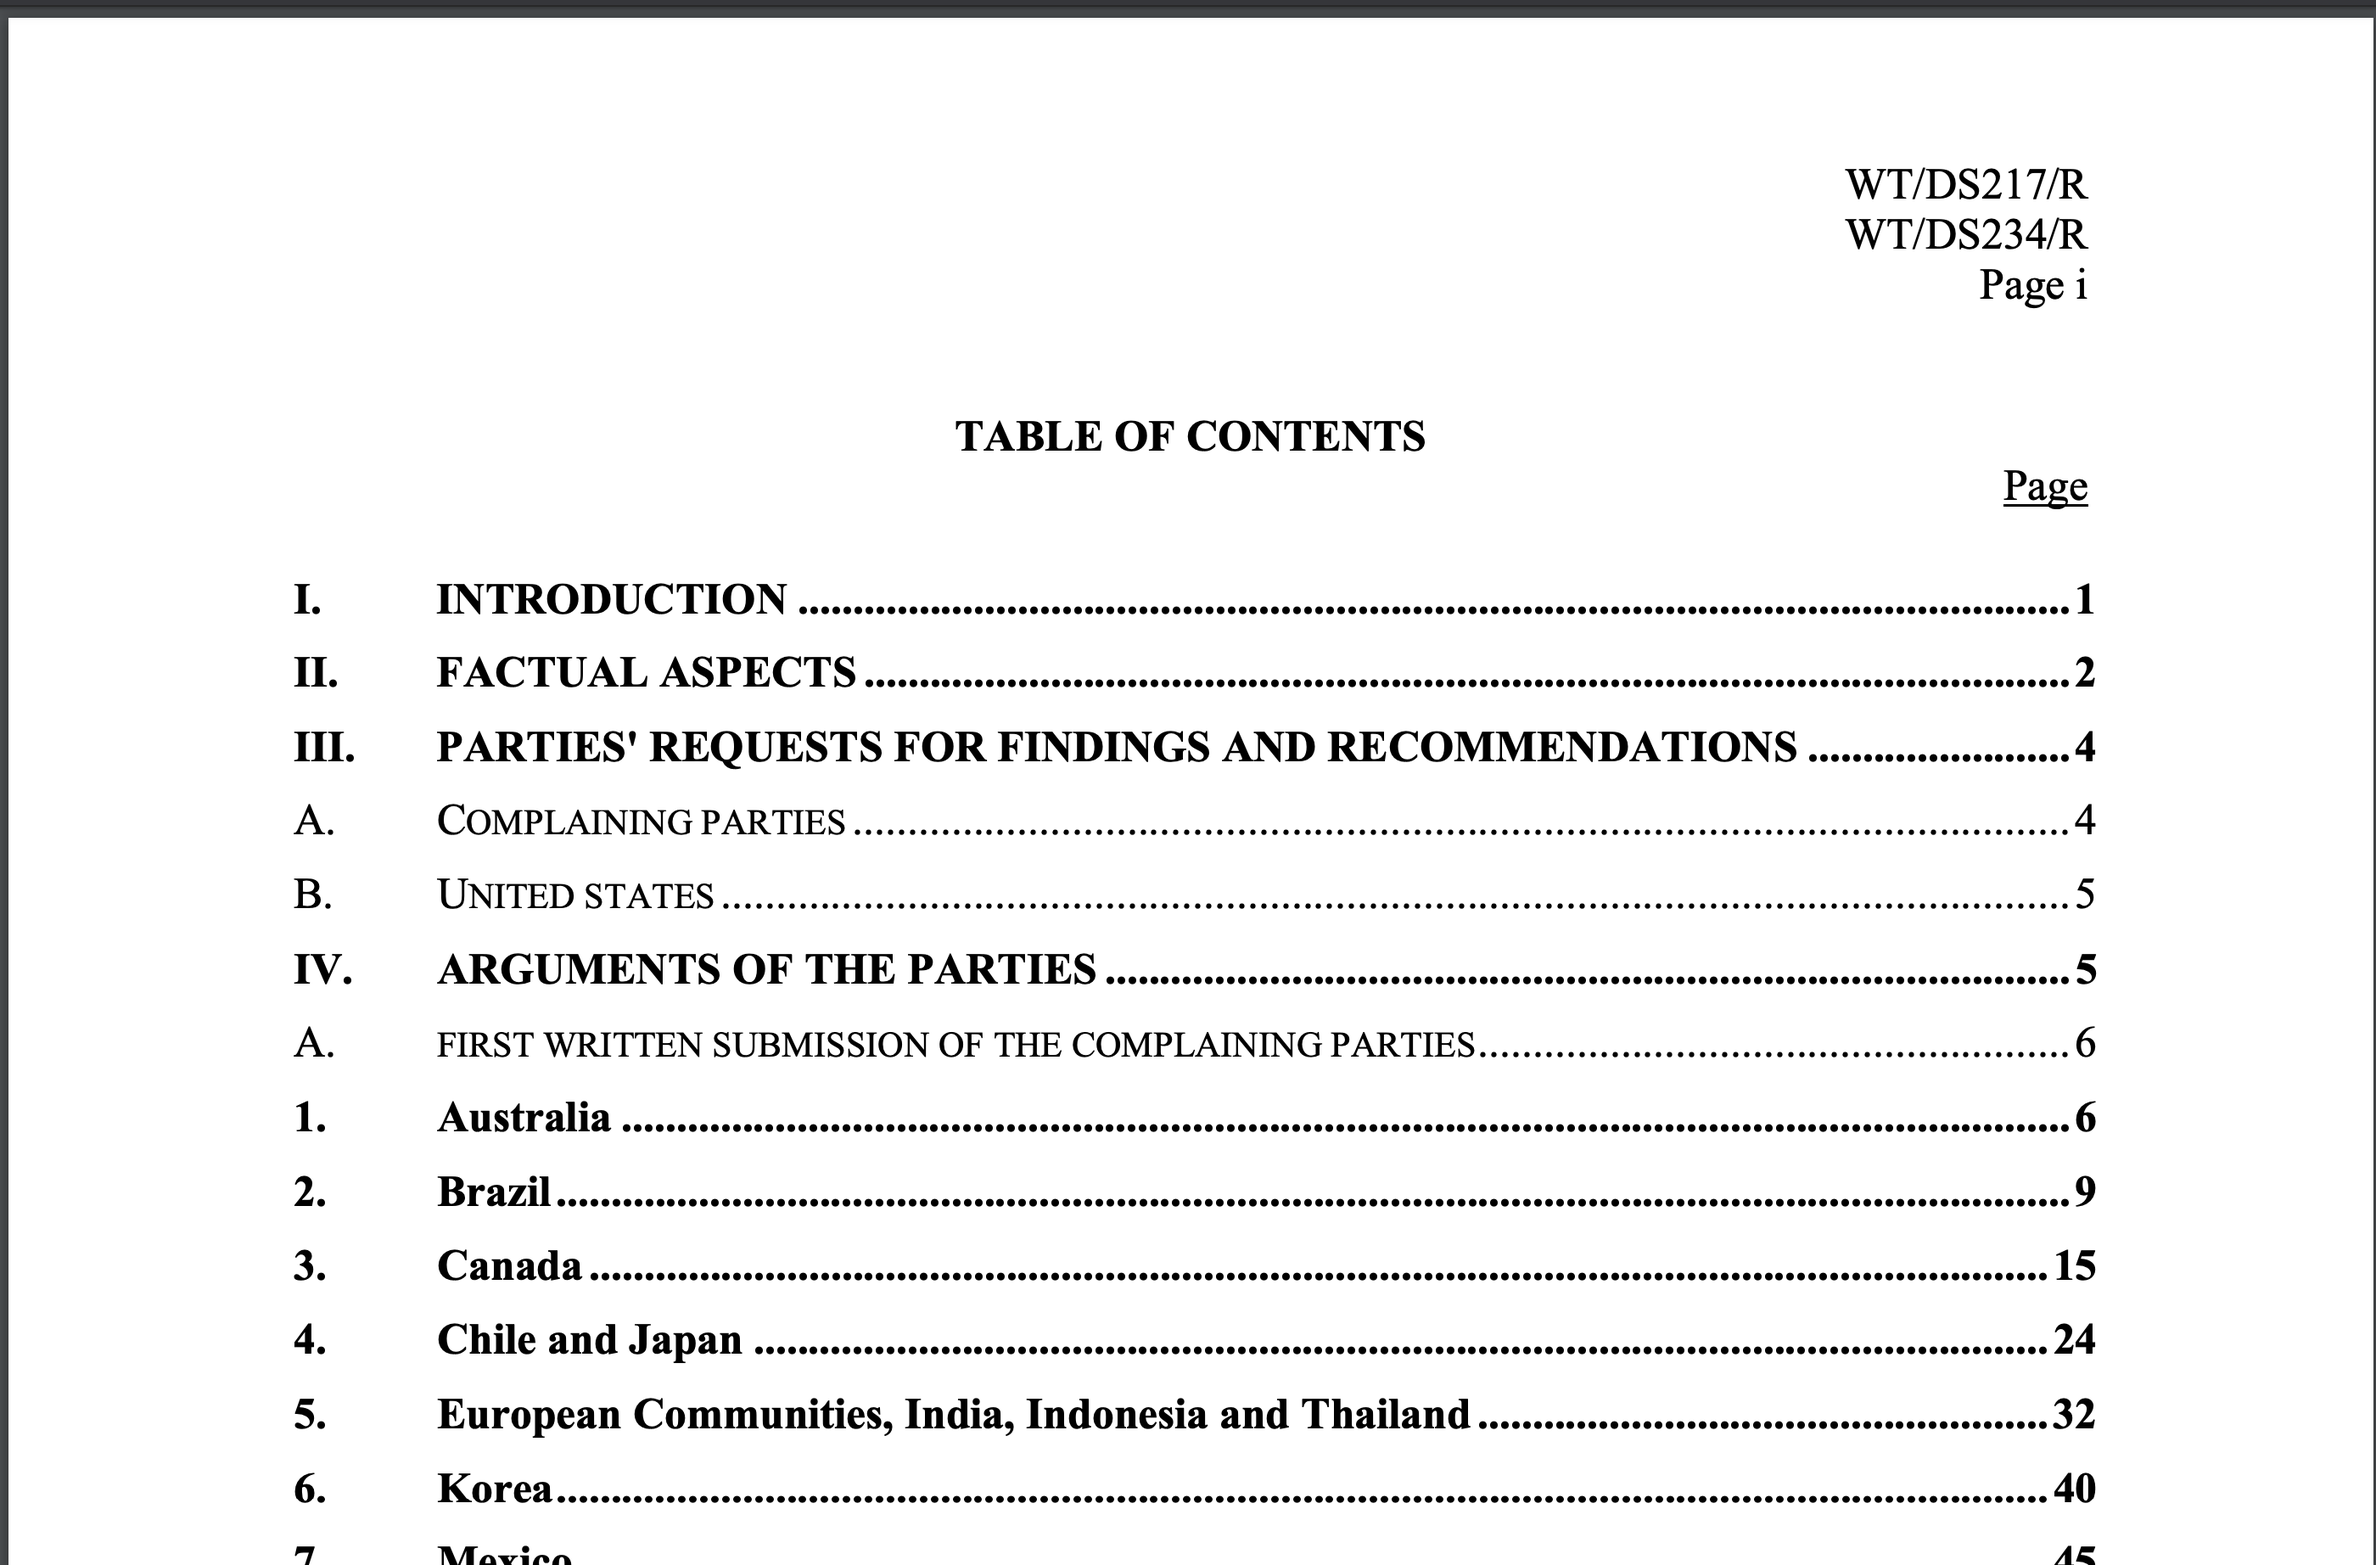
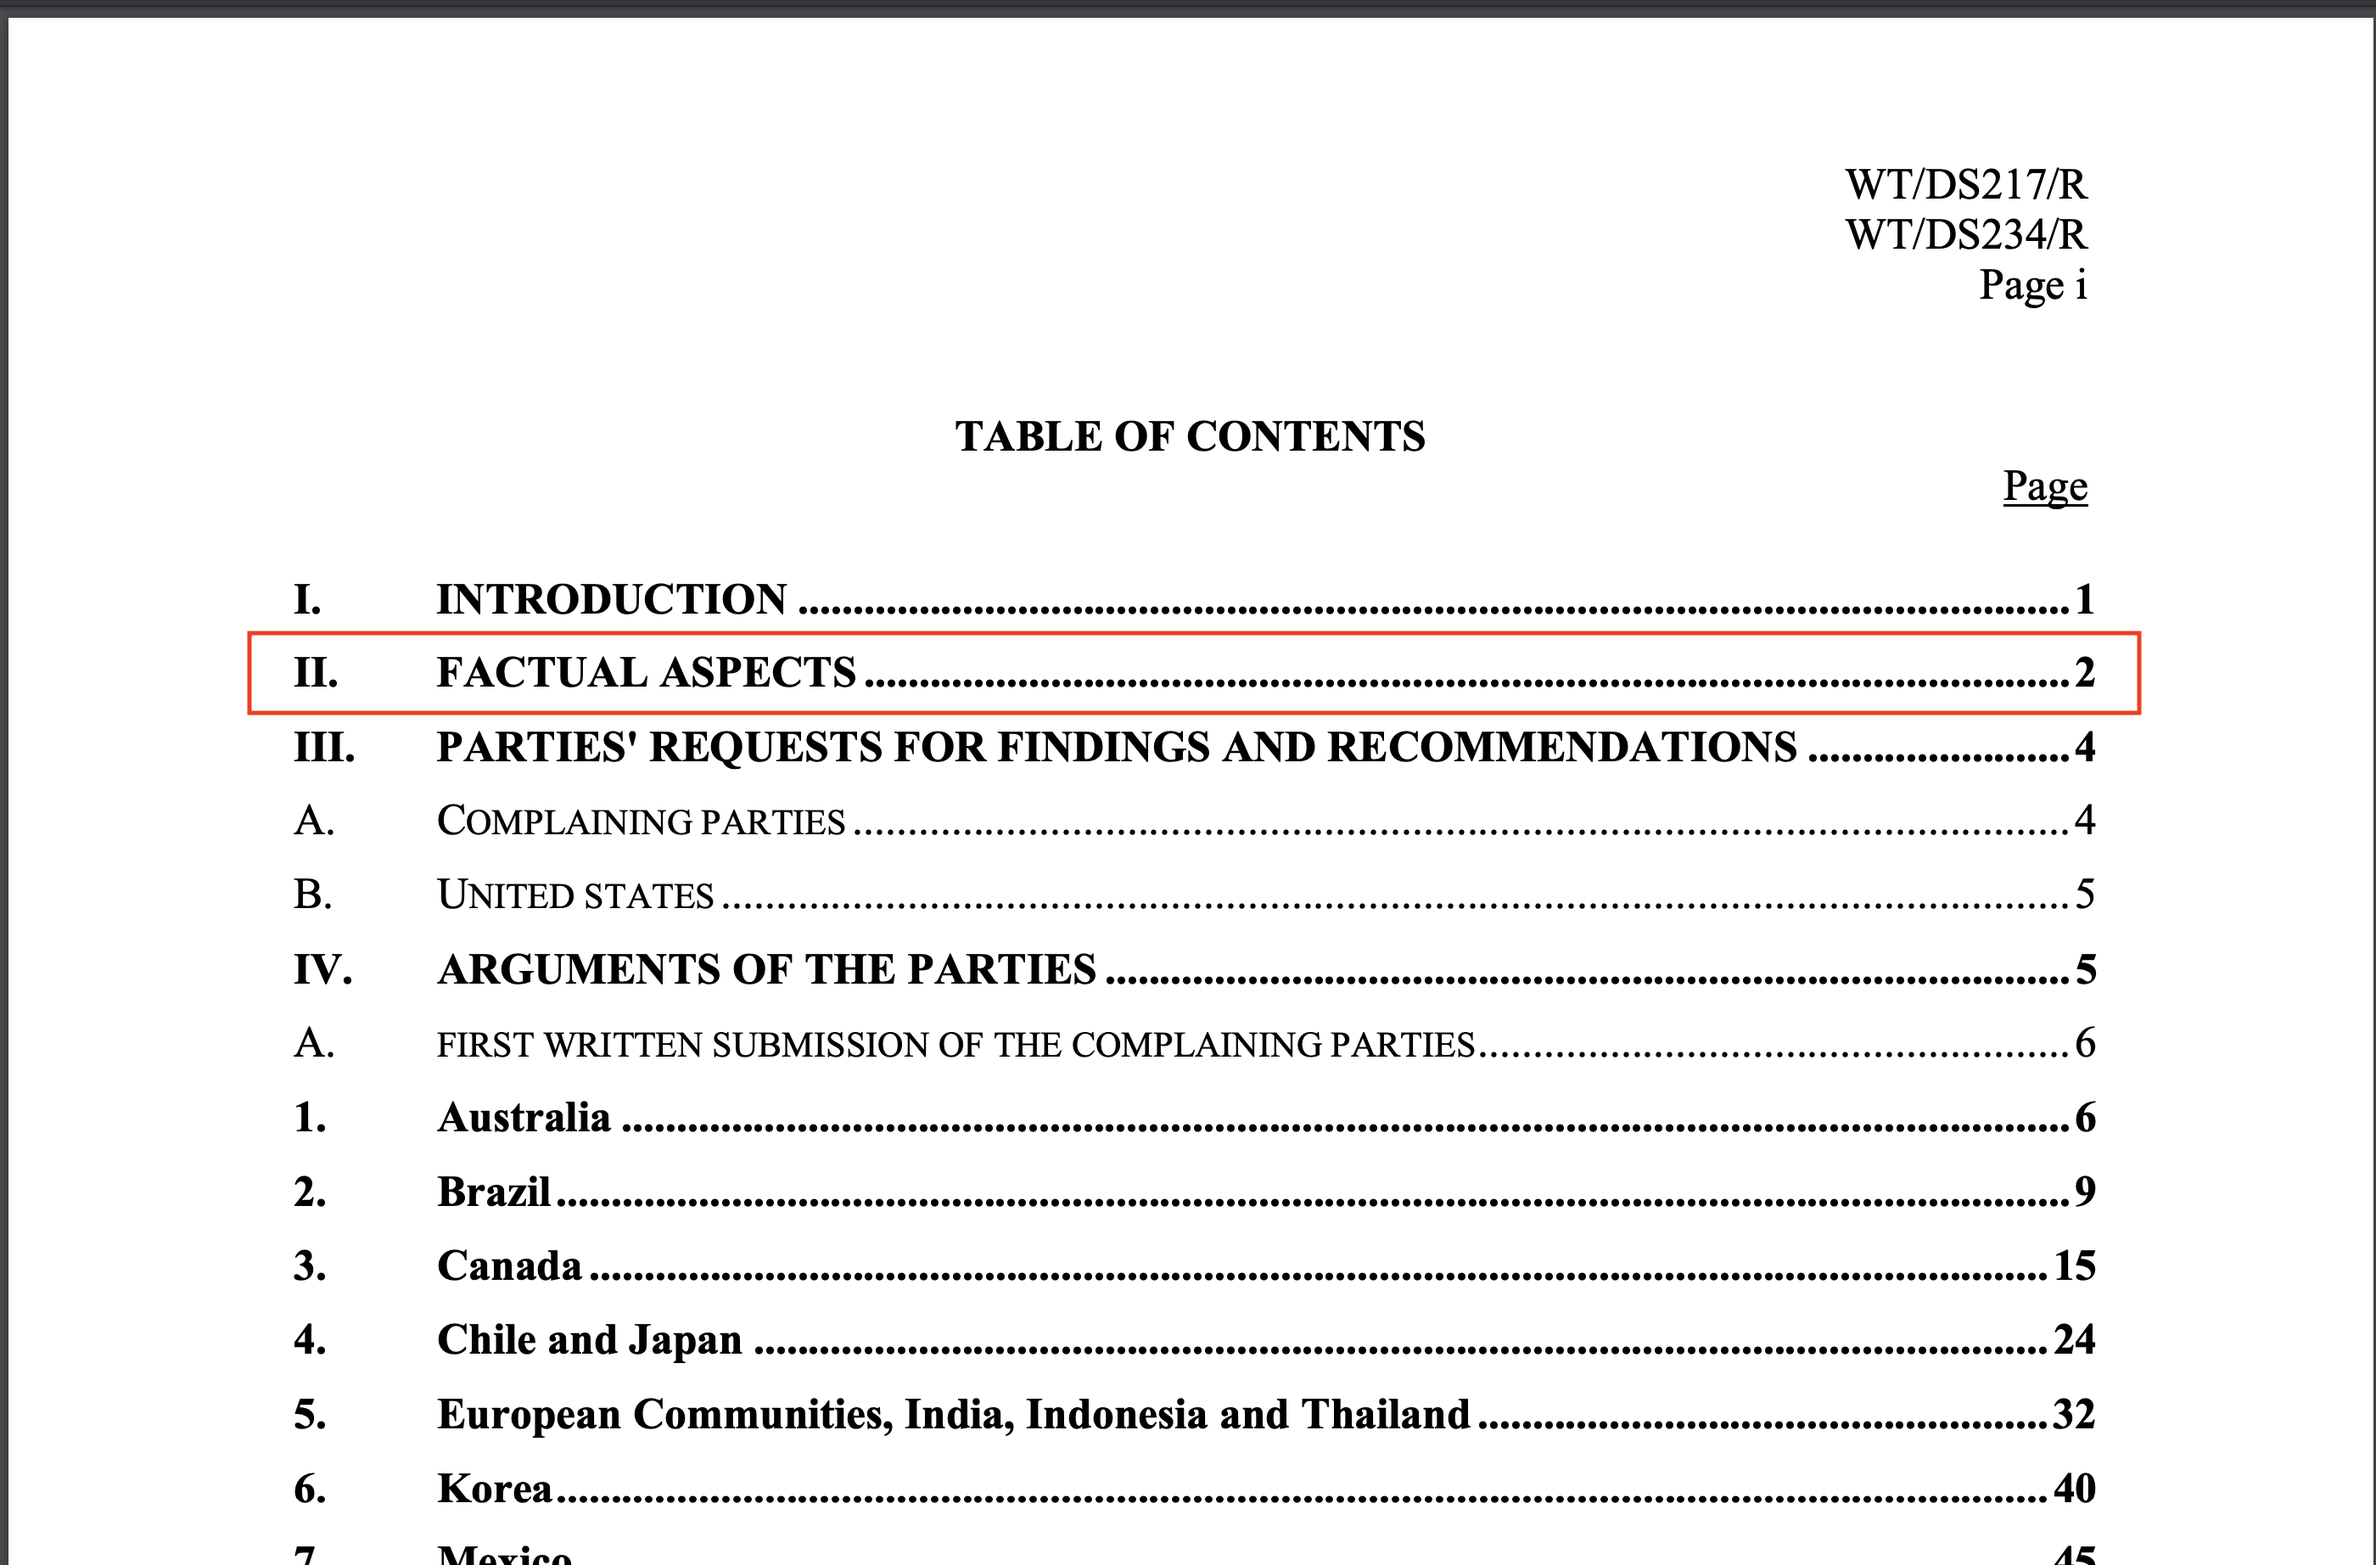
Change all

Changed region(s): [[0.0932, 0.4018, 0.9011, 0.4637]]

diff --git a/Data/Factual Aspect/main.tex b/Data/Factual Aspect/main.tex
@@ -1,0 +1,28 @@
+Textual description of trade policy that 
+led to the dispute is formally called 
+\textit{Factual Aspect} in WTO DSB. 
+Since panels
+always provide a factual aspect
+that summarizes the content of the dispute
+in the panel report (Figure \ref{fig:panel-report-toc}),
+this paper wrote a program that can 
+automatically search and collect 
+the panel reports in the WTO official doucment website\footnote{
+    \url{http://docs.wto.org}
+}.
+Then I wrote another program that locates the start 
+and end page of the factual asepct using the information in the 
+table of contents of the report (Figure \ref{fig:panel-report-toc}).
+By using this location, I excerpted factual aspect 
+from the panel reports. 
+\hyperref[sub:factual-aspect-example]{Appendix A.1} shows an
+example of excerpted factual aspect.
+
+
+
+% way before they express their
+% legal conclusion as to the inconsistency  to the rules of the WTO or not.
+
+% where the panel expresses 
+% its conclusion as to whether the challenged 
+% trade policy is inconsistent to the rules of the WTO or not.

diff --git a/Data/intro.tex b/Data/intro.tex
@@ -1,15 +1,19 @@
 I collected two different types of data for 143 dispute cases 
-requested to the WTO DSB.
+requested to the WTO DSB
+\footnote{List of collected case numbers are 
+available at \hyperref[sub:cited-articles-table]{Appendix A.3}
+}.
 One is textual description of trade policy 
 that led to the dispute \hyperref[sub:factual-aspect-example]{(Appendix A.2)} and the other one is 
 set of articles of the WTO agreement that are
 cited for each dispute \hyperref[sub:cited-articles-table]{(Appendix A.3)}. 
 I will explain the format and the content of 
 each type of data with an example. 
-Technical details about the automated way 
-of collecting data will be
-explained in the \hyperref[sub:cited-articles-table]{(Appendix A.3)}.
+% Technical details about the automated way 
+% of collecting data will be
+% explained in the \hyperref[appendix:panel-report-toc]{Appendix A.4}.
 
+\input{Data/examples/table-of-content-panel.tex}
 
 % This section explains how I collected 
 % which data to train the neural network. 

diff --git a/main.tex b/main.tex
@@ -154,7 +154,13 @@ Mapping Regulatory Network of WTO Dispute Settlement Body Using Deep Learning
 \section{Data}
 \input{Data/intro.tex}
 
+\subsection{General Explain}
+\input{Data/general-explain.tex}
+
 \subsection{Factual Aspect}
+\input{Data/Factual Aspect/main.tex}
+
+
 \begin{itemize}
   \item it usually explains government measure in detail
 \end{itemize}
@@ -195,8 +201,8 @@ This paper shows how WTO works.
 \begin{appendices}
 \section{Data}
 \label{sec:appendix}
-\subsection{Table of Contents of the Panel Report}
-\input{Data/examples/table-of-content-panel.tex}
+% \subsection{Table of Contents of the Panel Report}
+% \input{Data/examples/table-of-content-panel.tex}
 
 
 \subsection{Factual Aspect Example}
@@ -206,6 +212,9 @@ This paper shows how WTO works.
 \subsection{Cited Articles for All WTO DSB Cases Collected}
 \label{sub:cited-articles-table}
 \input{Data/examples/cited-articles-table.tex}
+
+\subsection{Technical Details}
+\label{sub:technicial-details}
 
 
 \input{art7dsu.tex}

diff --git a/Data/examples/table-of-content-panel.tex b/Data/examples/table-of-content-panel.tex
@@ -1,10 +1,12 @@
 \begin{figure}[h]
     \centering
     \includegraphics[scale=0.28]{Data/pngs/panel_report_toc.png}
-    \caption{{\bf Chapter II} usually contains factual aspect at panel report}
-    % : }It shows {\bf II. FACTUAL ASPECTS}
+    \caption{
+        {\bf Table of Contents of Panel Report: }Panel provides 
+        factual aspect in the panel report with its page location.
+        }
+    \label{fig:panel-report-toc}
 \end{figure}
-
 % \begin{center}
 %     \includegraphics[scale=0.3]{Data/pngs/panel_report_toc.png}
 % \end{center}

diff --git a/Introduction/motiviation.tex b/Introduction/motiviation.tex
@@ -19,7 +19,7 @@ those core principles.
 This is because each citation is closely related 
 to multiple characteristics 
 of each trade policy as exemplified in 
-the \textit{Byrd Amendment}. 
+the above mentioned \textit{Byrd Amendment} case. 
 Moreover, to understand the system properly, 
 it requires to generalize strategic 
 citation patterns which are limited 

diff --git a/Data/general-explain.tex b/Data/general-explain.tex
@@ -1,0 +1,3 @@
+\begin{itemize}
+    \item How WTO works with its typical rhetorics - "inconsitent with" .. with example
+\end{itemize}
